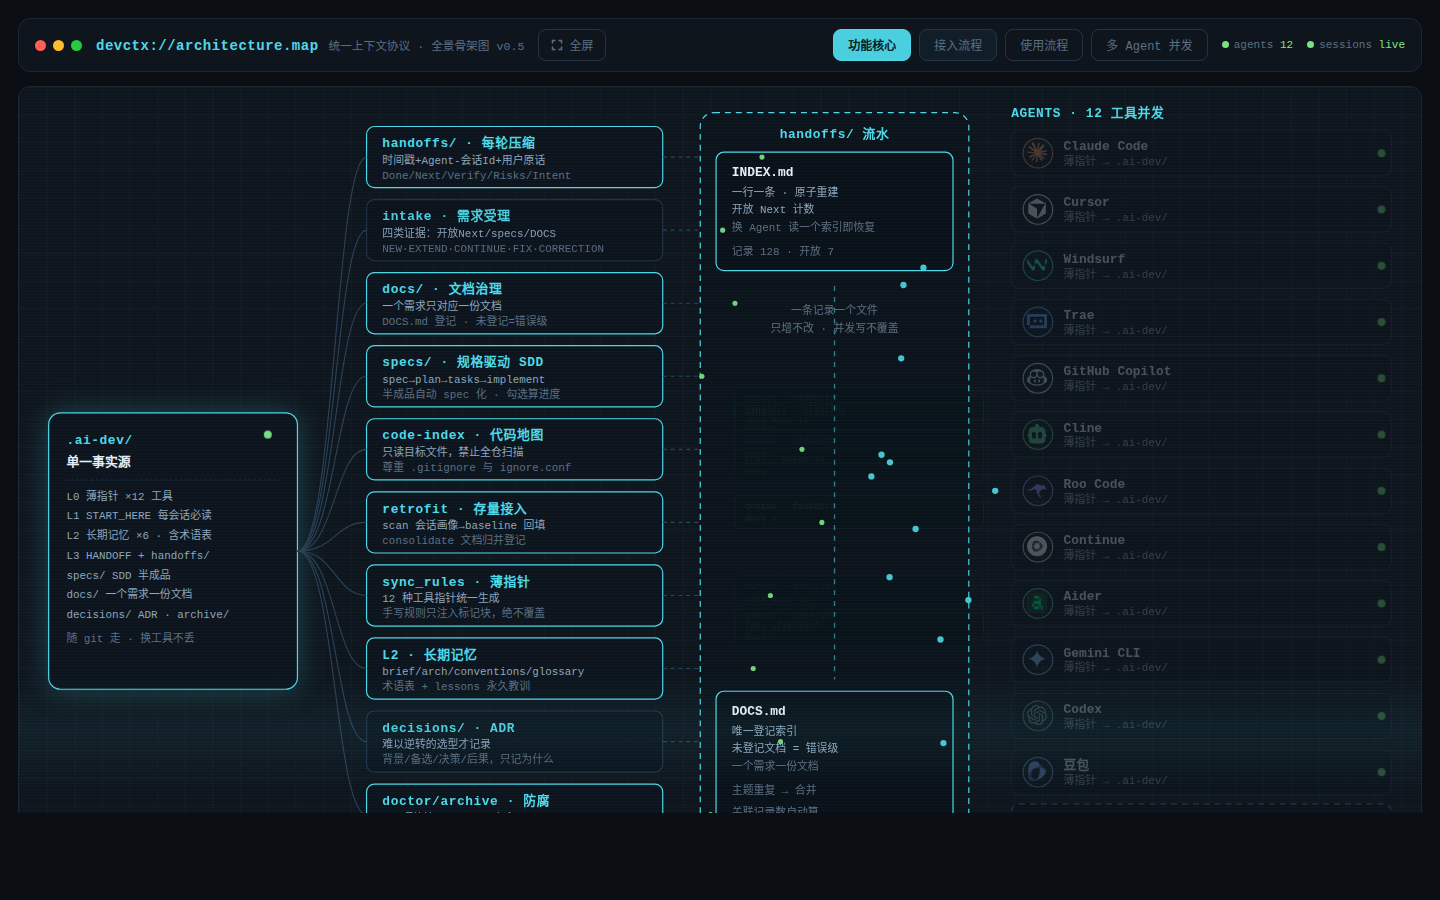
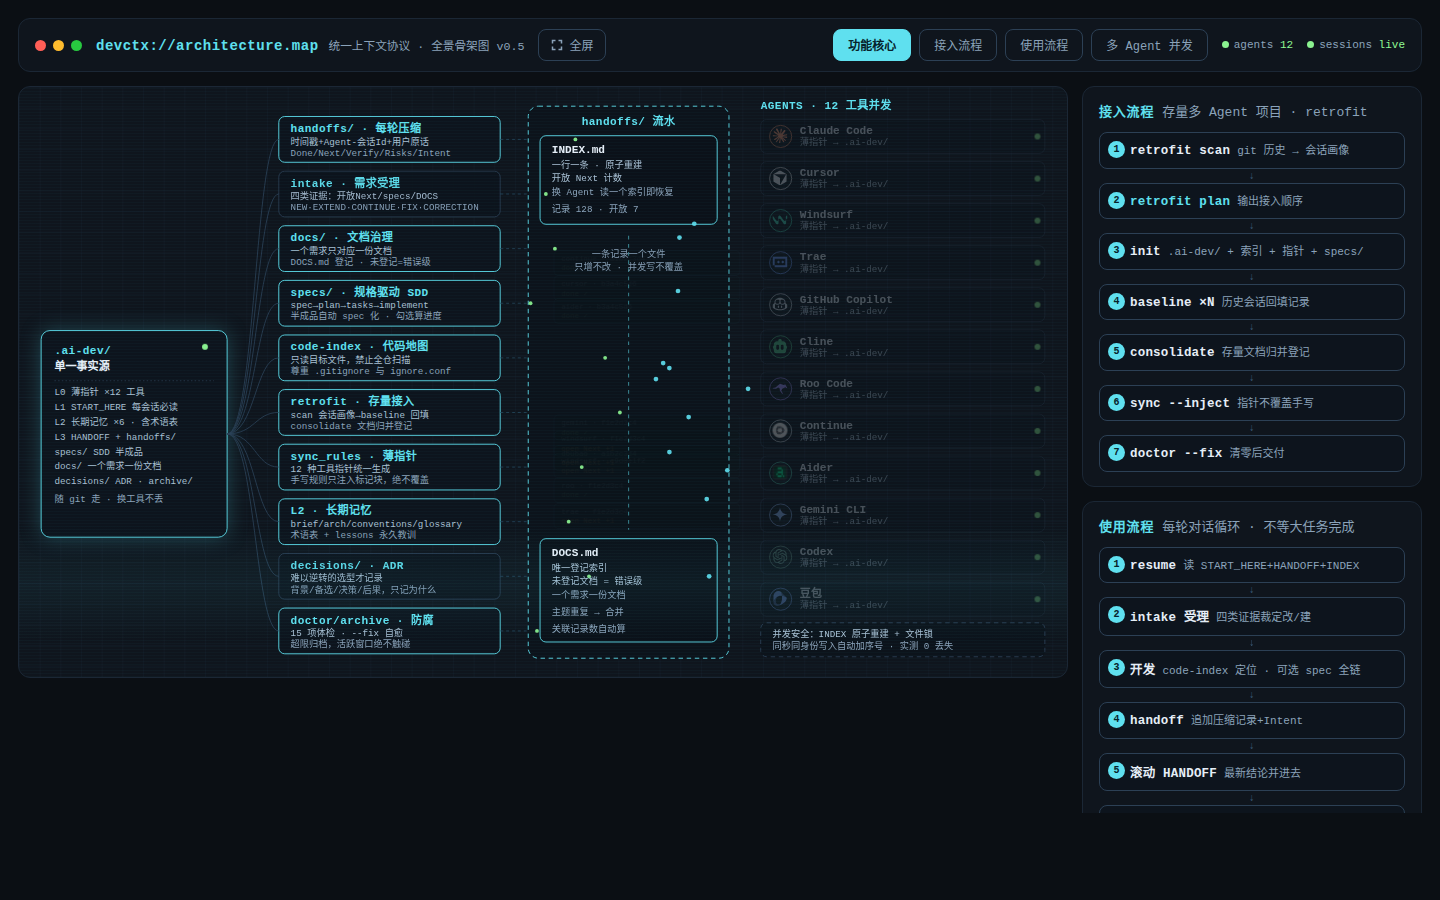
map: 接入/使用流程侧栏化 + 字体重设计（更亮更大更清晰）
布局：
- .pipes 双列横滑条 → .top 网格（地图 + 340px 侧栏），接入流程/使用流程
  竖排进侧栏，overflow-x 滑条彻底移除（steps sw==cw 实测无横向滚动）；
  ≤1180px 视口自动堆叠回地图下方，竖排步骤在窄屏同样无需横滑
- step 改单行紧凑排列（序号徽章 + 名称 + 说明同行），侧栏高度
  1123px → 771px，与地图 607px 基本齐平；箭头旋转 90° 向下

字体（原等宽 10-11.5px + 低对比 dim #5c6f82 确实看不清）：
- 提亮：--dim #5c6f82→#8ba3ba，--txt→#dbe7f3，--cy→#5fe0ef，
  SVG 文本 #8fa6bc→#a9c0d4
- 放大：SVG t-sub 11→12.5px、t-name/t-title/t-label 13→15px，
  step 名称 11.5→12.5px、说明 10→11px，foot 11→12px，chip 9→10px
- 加 -webkit-font-smoothing:antialiased

顺带修正 foot 里过时的"59 项测试"→75。已重发布永久链接并更新
README 缩略图（线上验证：有 side 无 pipes）。

diff --git a/docs/devctx-map.html b/docs/devctx-map.html
@@ -11,12 +11,13 @@
 <title>DevCTX · 动态骨架导图 — 统一上下文协议全景</title>
 <style>
 :root{
-  --bg:#0b0f14; --panel:#0f151d; --line:#1b2735; --line2:#243447;
-  --txt:#c9d6e3; --dim:#5c6f82; --cy:#4fd8e8; --gr:#7ee787; --am:#f2cc60; --rd:#ff7b72;
+  --bg:#0b0f14; --panel:#0f151d; --line:#1b2735; --line2:#2c4055;
+  --txt:#dbe7f3; --dim:#8ba3ba; --cy:#5fe0ef; --gr:#8ffa94; --am:#f7d268; --rd:#ff8d84;
 }
 *{box-sizing:border-box;margin:0;padding:0}
 html,body{background:var(--bg);color:var(--txt);
-  font-family:ui-monospace,"JetBrains Mono","SF Mono",Cascadia Code,Menlo,Consolas,"Liberation Mono",monospace;}
+  font-family:ui-monospace,"JetBrains Mono","SF Mono",Cascadia Code,Menlo,Consolas,"Liberation Mono",monospace;
+  -webkit-font-smoothing:antialiased;-moz-osx-font-smoothing:grayscale;}
 body{padding:18px;}
 .wrap{max-width:1480px;margin:0 auto;}
 /* ---------- header ---------- */
@@ -42,7 +43,7 @@ body{padding:18px;}
   margin-right:5px;animation:blink 2.4s infinite}
 @keyframes blink{0%,100%{opacity:1}50%{opacity:.25}}
 /* ---------- map ---------- */
-.mapbox{position:relative;margin-top:14px;background:var(--panel);border:1px solid var(--line);
+.mapbox{position:relative;background:var(--panel);border:1px solid var(--line);
   border-radius:12px;overflow:hidden;}
 .mapbox svg{display:block;width:100%;height:auto}
 .scanline{position:absolute;inset:0;pointer-events:none;
@@ -66,10 +67,10 @@ body{padding:18px;}
   animation:flow 1.2s linear infinite;}
 @keyframes flow{to{stroke-dashoffset:-22}}
 .sep{stroke:var(--line2);stroke-dasharray:2 3;}
-.t-name{fill:var(--cy);font-size:13px;font-weight:700;letter-spacing:.6px}
-.t-title{fill:#e6eef7;font-size:13px;font-weight:700}
-.t-label{fill:#dbe7f3;font-size:13px;font-weight:700}
-.t-sub{fill:#8fa6bc;font-size:11px}
+.t-name{fill:var(--cy);font-size:15px;font-weight:700;letter-spacing:.6px}
+.t-title{fill:#e6eef7;font-size:15px;font-weight:700}
+.t-label{fill:#dbe7f3;font-size:15px;font-weight:700}
+.t-sub{fill:#a9c0d4;font-size:12.5px}
 .t-sub.dim{fill:var(--dim)}
 .live-dot{fill:var(--gr);animation:blink 2s infinite}
 .ico-bubble{fill:#101a24;stroke:currentColor;stroke-width:1.2;opacity:.9}
@@ -87,21 +88,22 @@ body{padding:18px;}
   opacity:1;}
 .on .card.glow-c,.on .card{stroke:var(--cy);}
 .on .card.dashed{stroke:var(--cy);}
-/* ---------- pipelines ---------- */
-.pipes{margin-top:14px;display:grid;grid-template-columns:1fr 1fr;gap:14px;}
-@media(max-width:980px){.pipes{grid-template-columns:1fr}}
+/* ---------- top: map + side rails ---------- */
+.top{margin-top:14px;display:grid;grid-template-columns:minmax(0,1fr) 340px;gap:14px;align-items:start}
+.side{display:flex;flex-direction:column;gap:14px;min-width:0}
+@media(max-width:1180px){.top{grid-template-columns:1fr}}
 .pipe{background:var(--panel);border:1px solid var(--line);border-radius:12px;padding:14px 16px;min-width:0}
-.pipe h3{font-size:12px;color:var(--cy);letter-spacing:.8px;margin-bottom:12px;font-weight:700}
-.pipe h3 span{color:var(--dim);font-weight:400;margin-left:8px}
-.steps{display:flex;align-items:stretch;gap:0;overflow-x:auto;padding-bottom:4px}
-.step{min-width:118px;background:#0d141d;border:1px solid var(--line2);border-radius:8px;
-  padding:8px 10px;position:relative;flex:1;transition:.3s}
-.step b{display:block;font-size:11.5px;color:#e6eef7;margin-bottom:3px}
-.step small{font-size:10px;color:var(--dim);line-height:1.5;display:block}
-.step .n{position:absolute;top:-8px;left:-8px;width:18px;height:18px;border-radius:50%;
+.pipe h3{font-size:13px;color:var(--cy);letter-spacing:.8px;margin-bottom:12px;font-weight:700}
+.pipe h3 span{color:var(--dim);font-weight:400;margin-left:8px;letter-spacing:0}
+.steps{display:flex;flex-direction:column;gap:3px}
+.step{background:#0d141d;border:1px solid var(--line2);border-radius:8px;
+  padding:8px 10px 8px 30px;position:relative;transition:.3s}
+.step b{display:inline;font-size:12.5px;color:#e6eef7;letter-spacing:.2px}
+.step small{display:inline;font-size:11px;color:var(--dim);margin-left:7px;line-height:1.5}
+.step .n{position:absolute;top:8px;left:8px;width:17px;height:17px;border-radius:50%;
   background:var(--cy);color:#06222a;font-size:10px;font-weight:700;display:grid;place-items:center}
-.arrow{align-self:center;color:#2b4258;font-size:14px;padding:0 5px;flex:0 0 auto}
-.step.lit{border-color:var(--cy);box-shadow:0 0 12px rgba(79,216,232,.25);transform:translateY(-2px)}
+.arrow{align-self:center;color:#3a5a78;font-size:10px;line-height:1;transform:rotate(90deg);margin:-1px 0}
+.step.lit{border-color:var(--cy);box-shadow:0 0 12px rgba(79,216,232,.25)}
 .step.lit b{color:var(--cy)}
 /* ---------- console ---------- */
 .console{margin-top:14px;background:var(--panel);border:1px solid var(--line);border-radius:12px;
@@ -119,12 +121,12 @@ body{padding:18px;}
 .metric b{color:var(--txt);font-weight:700;font-size:13px}
 .metric b.up{color:var(--gr)}
 /* ---------- footer ---------- */
-.foot{margin-top:14px;color:var(--dim);font-size:11px;line-height:1.9;padding:0 4px 8px}
-.foot code{color:#8fa6bc;background:#0d141d;border:1px solid var(--line);border-radius:5px;
-  padding:1px 6px;font-size:10.5px}
+.foot{margin-top:14px;color:var(--dim);font-size:12px;line-height:1.9;padding:0 4px 8px}
+.foot code{color:#a9c0d4;background:#0d141d;border:1px solid var(--line);border-radius:5px;
+  padding:1px 6px;font-size:11.5px}
 /* stream chips inside bus */
 .chip{fill:#0f1a24;stroke:var(--cy);stroke-width:.8}
-.chip-t{fill:#9fdede;font-size:9px;font-family:inherit}
+.chip-t{fill:#9fdede;font-size:10px;font-family:inherit}
 /* ---------- mobile ---------- */
 html{-webkit-text-size-adjust:100%;text-size-adjust:100%}
 .map-wrap{position:relative}
@@ -150,11 +152,12 @@ html{-webkit-text-size-adjust:100%;text-size-adjust:100%}
   .mapbox .t-sub.dim{font-size:13px}
   .mapbox .chip-t{font-size:11.5px}
   .map-hint{display:block;margin-top:6px;color:var(--dim);font-size:11px;text-align:center}
-  /* pipelines */
+  /* pipelines: vertical steps in side rail, no horizontal scroll */
   .pipe{padding:12px}
-  .step{min-width:138px}
-  .step b{font-size:12.5px}
-  .step small{font-size:11px}
+  .step{padding:9px 10px 9px 32px}
+  .step .n{top:9px;left:9px;width:18px;height:18px;font-size:10.5px}
+  .step b{font-size:13.5px}
+  .step small{font-size:12px}
   /* console metrics: 2-col grid instead of tall stack */
   .c-side{display:grid;grid-template-columns:1fr 1fr;gap:8px 16px;
     border-left:none;border-top:1px solid var(--line)}
@@ -191,7 +194,6 @@ html{-webkit-text-size-adjust:100%;text-size-adjust:100%}
   .leds{font-size:10px;gap:8px}
   .mapbox svg{min-width:1040px}
   .map-hint{font-size:10px;margin-top:4px}
-  .pipes{grid-template-columns:1fr 1fr;gap:10px}
   .pipe{padding:10px 12px}
   .pipe h3{margin-bottom:8px}
   .console{grid-template-columns:1fr 250px}
@@ -224,9 +226,10 @@ html{-webkit-text-size-adjust:100%;text-size-adjust:100%}
     </div>
   </div>
 
-  <div class="map-wrap">
-    <div class="mapbox">
-      
+  <div class="top">
+    <div class="map-wrap">
+      <div class="mapbox">
+        
 <svg id="map" viewBox="0 0 1420 800" xmlns="http://www.w3.org/2000/svg" role="img">
   <defs>
     <pattern id="grid" width="28" height="28" patternUnits="userSpaceOnUse">
@@ -599,64 +602,64 @@ html{-webkit-text-size-adjust:100%;text-size-adjust:100%}
   </circle>
 </svg>
 
-      <div class="scanline"></div>
-      <div class="scanbeam"></div>
-    </div>
-    <div class="rotate-hint" id="rotateHint">
-      <div class="rh-box">
-        <div class="rh-ico">
-          <svg viewBox="0 0 48 48" width="46" height="46" aria-hidden="true">
-            <rect x="15" y="7" width="18" height="34" rx="3.5" fill="none" stroke="#4fd8e8" stroke-width="1.5"/>
-            <line x1="21" y1="11.5" x2="27" y2="11.5" stroke="#4fd8e8" stroke-width="1.5" stroke-linecap="round"/>
-            <path d="M39 22 A13 13 0 0 1 41 32" fill="none" stroke="#4fd8e8" stroke-width="1.5" stroke-linecap="round"/>
-            <path d="M41 25.5 L41 33 L33.5 32.5" fill="none" stroke="#4fd8e8" stroke-width="1.5" stroke-linecap="round" stroke-linejoin="round"/>
-          </svg>
+        <div class="scanline"></div>
+        <div class="scanbeam"></div>
+      </div>
+      <div class="rotate-hint" id="rotateHint">
+        <div class="rh-box">
+          <div class="rh-ico">
+            <svg viewBox="0 0 48 48" width="46" height="46" aria-hidden="true">
+              <rect x="15" y="7" width="18" height="34" rx="3.5" fill="none" stroke="#4fd8e8" stroke-width="1.5"/>
+              <line x1="21" y1="11.5" x2="27" y2="11.5" stroke="#4fd8e8" stroke-width="1.5" stroke-linecap="round"/>
+              <path d="M39 22 A13 13 0 0 1 41 32" fill="none" stroke="#4fd8e8" stroke-width="1.5" stroke-linecap="round"/>
+              <path d="M41 25.5 L41 33 L33.5 32.5" fill="none" stroke="#4fd8e8" stroke-width="1.5" stroke-linecap="round" stroke-linejoin="round"/>
+            </svg>
+          </div>
+          <b>横屏观看更佳</b>
+          <small>骨架图是宽幅版式 · 旋转手机即刻看到完整全景与全部连线</small>
+          <button class="rh-btn rh-primary" id="rhGo">横屏全屏观看</button>
+          <button class="rh-btn rh-ghost" id="rhDismiss">仍要竖屏浏览</button>
         </div>
-        <b>横屏观看更佳</b>
-        <small>骨架图是宽幅版式 · 旋转手机即刻看到完整全景与全部连线</small>
-        <button class="rh-btn rh-primary" id="rhGo">横屏全屏观看</button>
-        <button class="rh-btn rh-ghost" id="rhDismiss">仍要竖屏浏览</button>
       </div>
     </div>
+    <aside class="side">
+      <div class="pipe">
+        <h3>接入流程<span>存量多 Agent 项目 · retrofit</span></h3>
+        <div class="steps pipe-onboard">
+          <div class="step"><span class="n">1</span><b>retrofit scan</b><small>git 历史 → 会话画像</small></div>
+          <div class="arrow">→</div>
+          <div class="step"><span class="n">2</span><b>retrofit plan</b><small>输出接入顺序</small></div>
+          <div class="arrow">→</div>
+          <div class="step"><span class="n">3</span><b>init</b><small>.ai-dev/ + 索引 + 指针 + specs/</small></div>
+          <div class="arrow">→</div>
+          <div class="step"><span class="n">4</span><b>baseline ×N</b><small>历史会话回填记录</small></div>
+          <div class="arrow">→</div>
+          <div class="step"><span class="n">5</span><b>consolidate</b><small>存量文档归并登记</small></div>
+          <div class="arrow">→</div>
+          <div class="step"><span class="n">6</span><b>sync --inject</b><small>指针不覆盖手写</small></div>
+          <div class="arrow">→</div>
+          <div class="step"><span class="n">7</span><b>doctor --fix</b><small>清零后交付</small></div>
+        </div>
+      </div>
+      <div class="pipe">
+        <h3>使用流程<span>每轮对话循环 · 不等大任务完成</span></h3>
+        <div class="steps pipe-usage">
+          <div class="step"><span class="n">1</span><b>resume</b><small>读 START_HERE+HANDOFF+INDEX</small></div>
+          <div class="arrow">→</div>
+          <div class="step"><span class="n">2</span><b>intake 受理</b><small>四类证据裁定改/建</small></div>
+          <div class="arrow">→</div>
+          <div class="step"><span class="n">3</span><b>开发</b><small>code-index 定位 · 可选 spec 全链</small></div>
+          <div class="arrow">→</div>
+          <div class="step"><span class="n">4</span><b>handoff</b><small>追加压缩记录+Intent</small></div>
+          <div class="arrow">→</div>
+          <div class="step"><span class="n">5</span><b>滚动 HANDOFF</b><small>最新结论并进去</small></div>
+          <div class="arrow">→</div>
+          <div class="step"><span class="n">6</span><b>archive/doctor</b><small>超限归档 · 体检防腐</small></div>
+        </div>
+      </div>
+    </aside>
   </div>
   <div class="map-hint">骨架图按宽屏绘制 · 横屏观看更佳，竖屏可左右滑动 + 双指缩放</div>
-
-  <div class="pipes">
-    <div class="pipe">
-      <h3>接入流程<span>存量多 Agent 项目 · retrofit</span></h3>
-      <div class="steps pipe-onboard">
-        <div class="step"><span class="n">1</span><b>retrofit scan</b><small>git 历史 → 会话画像</small></div>
-        <div class="arrow">→</div>
-        <div class="step"><span class="n">2</span><b>retrofit plan</b><small>输出接入顺序</small></div>
-        <div class="arrow">→</div>
-        <div class="step"><span class="n">3</span><b>init</b><small>.ai-dev/ + 索引 + 指针 + specs/</small></div>
-        <div class="arrow">→</div>
-        <div class="step"><span class="n">4</span><b>baseline ×N</b><small>历史会话回填记录</small></div>
-        <div class="arrow">→</div>
-        <div class="step"><span class="n">5</span><b>consolidate</b><small>存量文档归并登记</small></div>
-        <div class="arrow">→</div>
-        <div class="step"><span class="n">6</span><b>sync --inject</b><small>指针不覆盖手写</small></div>
-        <div class="arrow">→</div>
-        <div class="step"><span class="n">7</span><b>doctor --fix</b><small>清零后交付</small></div>
-      </div>
-    </div>
-    <div class="pipe">
-      <h3>使用流程<span>每轮对话循环 · 不等大任务完成</span></h3>
-      <div class="steps pipe-usage">
-        <div class="step"><span class="n">1</span><b>resume</b><small>读 START_HERE+HANDOFF+INDEX</small></div>
-        <div class="arrow">→</div>
-        <div class="step"><span class="n">2</span><b>intake 受理</b><small>四类证据裁定改/建</small></div>
-        <div class="arrow">→</div>
-        <div class="step"><span class="n">3</span><b>开发</b><small>code-index 定位 · 可选 spec 全链</small></div>
-        <div class="arrow">→</div>
-        <div class="step"><span class="n">4</span><b>handoff</b><small>追加压缩记录+Intent</small></div>
-        <div class="arrow">→</div>
-        <div class="step"><span class="n">5</span><b>滚动 HANDOFF</b><small>最新结论并进去</small></div>
-        <div class="arrow">→</div>
-        <div class="step"><span class="n">6</span><b>archive/doctor</b><small>超限归档 · 体检防腐</small></div>
-      </div>
-    </div>
-  </div>
 
   <div class="console">
     <div class="c-out"></div>
@@ -674,7 +677,7 @@ html{-webkit-text-size-adjust:100%;text-size-adjust:100%}
     <code>init_project.py</code> <code>retrofit.py scan|plan|baseline|consolidate</code>
     <code>doc_registry.py --intake</code> <code>log_handoff.py</code>
     <code>build_index.py</code> <code>sync_rules.py</code> <code>archive_handoff.py</code> <code>doctor.py</code>
-    · 纯 Python 标准库 · 59 项测试 · 深色骨架图实时演示 handoffs/ 流水写入
+    · 纯 Python 标准库 · 75 项测试 · 深色骨架图实时演示 handoffs/ 流水写入
   </div>
 </div>
 <script>
